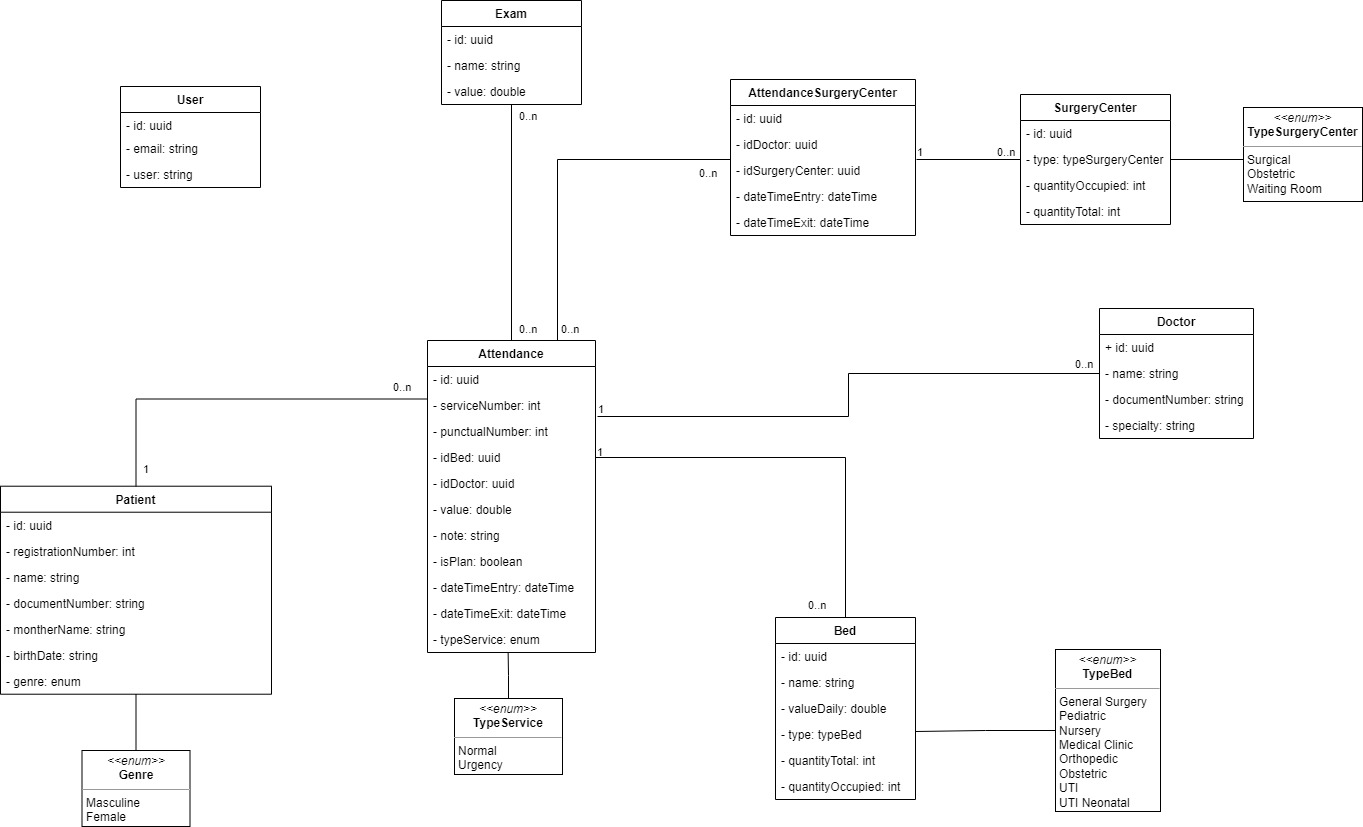
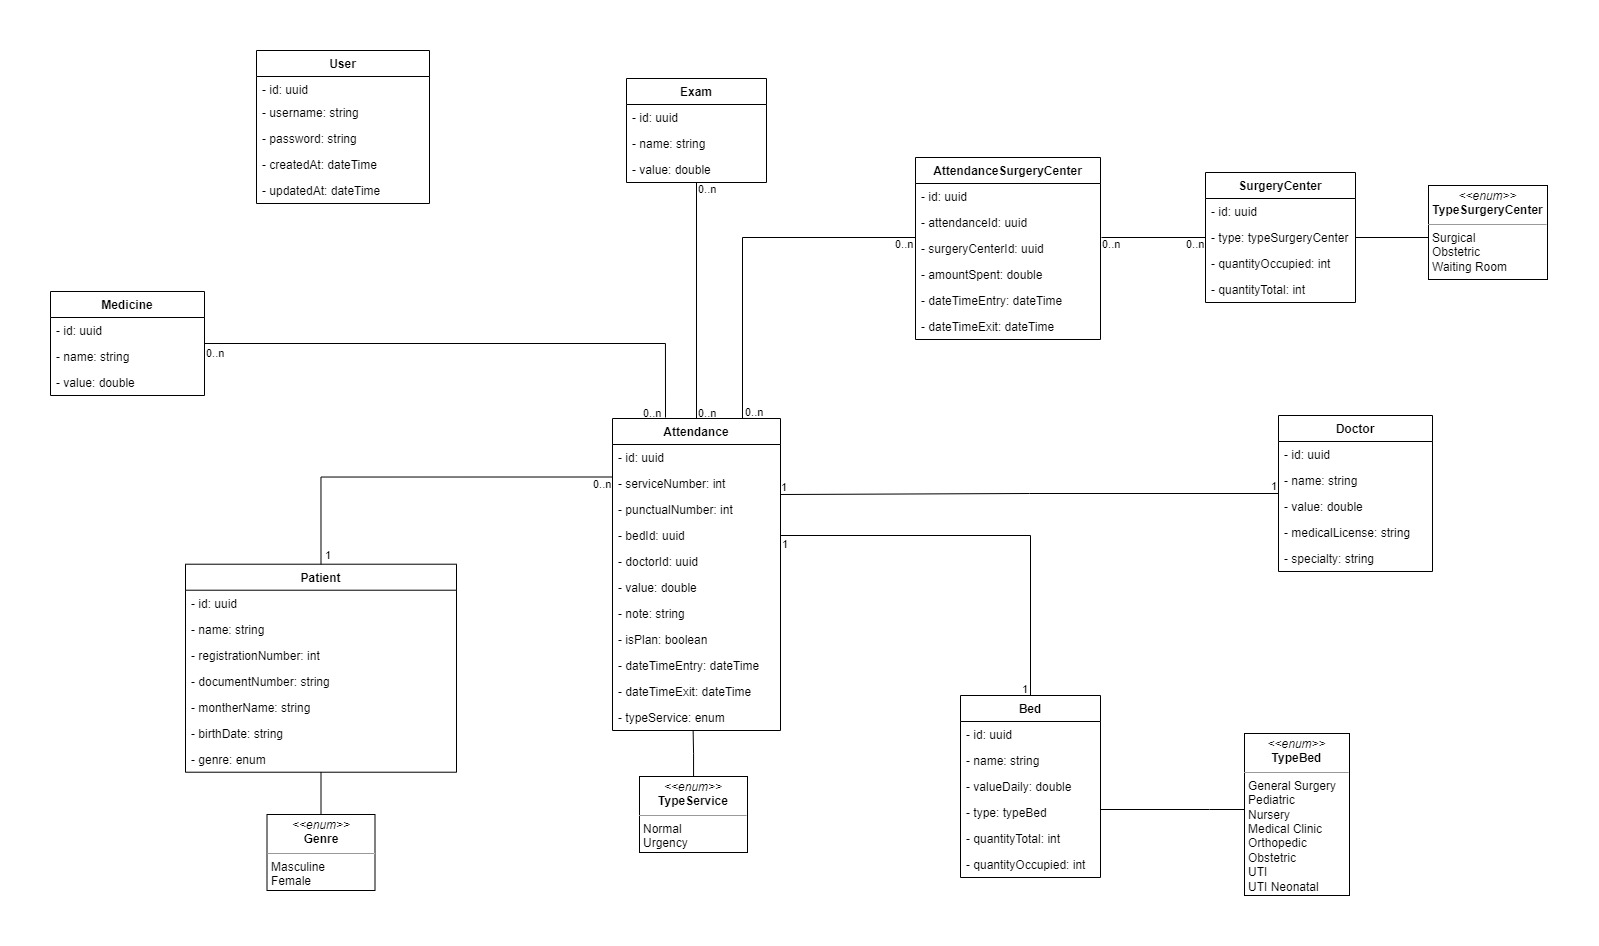
database mapping finalization

diff --git a/src/main/java/com/control/hospital/controller/entity/Attendance.java b/src/main/java/com/control/hospital/controller/entity/Attendance.java
@@ -1,4 +1,102 @@
 package com.control.hospital.controller.entity;
 
+import com.control.hospital.controller.enums.TypeService;
+import lombok.AllArgsConstructor;
+import lombok.Getter;
+import lombok.NoArgsConstructor;
+
+import javax.persistence.*;
+import java.time.LocalDateTime;
+import java.util.List;
+
+import static javax.persistence.CascadeType.*;
+import static javax.persistence.EnumType.*;
+
+@Entity
+@Getter
+@AllArgsConstructor
+@NoArgsConstructor
 public class Attendance {
+    @Id
+    @Column(
+            updatable = false,
+            unique = true,
+            nullable = false
+    )
+    private String id;
+
+    @Column(
+            nullable = false,
+            name = "service_number"
+    )
+    private Integer serviceNumber;
+
+    @Column(
+            nullable = false,
+            name = "punctual_number"
+    )
+    private Integer punctualNumber;
+
+    @OneToOne(cascade = ALL)
+    @JoinColumn(name = "doctor_id", referencedColumnName = "id")
+    private Doctor doctorId;
+
+    @OneToOne(cascade = ALL)
+    @JoinColumn(name = "bed_id", referencedColumnName = "id")
+    private Bed bedId;
+
+    @Column(nullable = false)
+    private Double value;
+
+    @Column(nullable = false)
+    private String note;
+
+    @Column(
+            nullable = false,
+            name = "is_plan"
+    )
+    private Boolean isPlan;
+
+    @Column(
+            nullable = false,
+            name = "date_time_entry"
+    )
+    private LocalDateTime dateTimeEntry;
+
+    @Column(
+            nullable = false,
+            name = "date_time_exit"
+    )
+    private LocalDateTime dateTimeExit;
+
+    @Enumerated(STRING)
+    @Column(
+            nullable = false,
+            name = "type_service"
+    )
+    private TypeService typeService;
+
+    @OneToMany(mappedBy = "attendance")
+    private List<AttendanceSurgeryCenter> registrations;
+
+    @ManyToMany
+    @JoinTable(
+            name = "exam_attendance",
+            joinColumns = @JoinColumn(name = "attendance_id"),
+            inverseJoinColumns = @JoinColumn(name = "exam_id"))
+    private List<Exam> exams;
+
+    @ManyToMany
+    @JoinTable(
+            name = "medicine_attendance",
+            joinColumns = @JoinColumn(name = "attendance_id"),
+            inverseJoinColumns = @JoinColumn(name = "medicine_id"))
+    private List<Medicine> medicines;
+
+    @ManyToMany
+    @JoinTable(
+            name = "patient_attendance",
+            joinColumns = @JoinColumn(name = "attendance_id"),
+            inverseJoinColumns = @JoinColumn(name = "patient_id"))
+    private List<Patient> patients;
 }

diff --git a/src/main/java/com/control/hospital/controller/entity/AttendanceSurgeryCenter.java b/src/main/java/com/control/hospital/controller/entity/AttendanceSurgeryCenter.java
@@ -1,0 +1,48 @@
+package com.control.hospital.controller.entity;
+
+import lombok.AllArgsConstructor;
+import lombok.Getter;
+import lombok.NoArgsConstructor;
+
+import javax.persistence.*;
+import java.time.LocalDateTime;
+
+@Entity(name = "attendance_surgery_center")
+@Getter
+@AllArgsConstructor
+@NoArgsConstructor
+public class AttendanceSurgeryCenter {
+    @Id
+    @Column(
+            updatable = false,
+            unique = true,
+            nullable = false
+    )
+    private String id;
+
+    @Column(
+            nullable = false,
+            name = "amount_spent"
+    )
+    private Double amountSpent;
+
+    @Column(
+            nullable = false,
+            name = "date_time_entry"
+    )
+    private LocalDateTime dateTimeEntry;
+
+    @Column(
+            nullable = false,
+            name = "date_time_exit"
+    )
+    private LocalDateTime dateTimeExit;
+
+    @ManyToOne
+    @JoinColumn(name = "attendance_id")
+    Attendance attendance;
+
+    @ManyToOne
+    @JoinColumn(name = "surgery_center_id")
+    SurgeryCenter surgeryCenter;
+}

diff --git a/src/main/java/com/control/hospital/controller/entity/SurgeryCenter.java b/src/main/java/com/control/hospital/controller/entity/SurgeryCenter.java
@@ -6,6 +6,9 @@ import lombok.Getter;
 import lombok.NoArgsConstructor;
 
 import javax.persistence.*;
+import java.util.List;
+
+import static javax.persistence.EnumType.*;
 
 @Entity(name = "surgery_center")
 @Getter
@@ -20,7 +23,7 @@ public class SurgeryCenter {
     )
     private String id;
 
-    @Enumerated(EnumType.STRING)
+    @Enumerated(STRING)
     @Column(
             nullable = false,
             name = "type_surgery_center"
@@ -38,4 +41,7 @@ public class SurgeryCenter {
             name = "quantity_occupied"
     )
     private Integer quantityOccupied;
+
+    @OneToMany(mappedBy = "surgeryCenter")
+    private List<AttendanceSurgeryCenter> registrations;
 }

diff --git a/src/main/java/com/control/hospital/controller/entity/Exam.java b/src/main/java/com/control/hospital/controller/entity/Exam.java
@@ -7,6 +7,8 @@ import lombok.NoArgsConstructor;
 import javax.persistence.Column;
 import javax.persistence.Entity;
 import javax.persistence.Id;
+import javax.persistence.ManyToMany;
+import java.util.List;
 
 @Entity
 @Getter
@@ -24,12 +26,9 @@ public class Exam {
     @Column(nullable = false)
     private String name;
 
-    @Column(
-            nullable = false,
-            name = "medical_license"
-    )
-    private String medicalLicense;
-
     @Column(nullable = false)
-    private String specialty;
+    private Double value;
+
+    @ManyToMany(mappedBy = "exams")
+    private List<Attendance> attendances;
 }

diff --git a/src/main/java/com/control/hospital/config/persistence/DatabaseConfig.java b/src/main/java/com/control/hospital/config/persistence/DatabaseConfig.java
@@ -23,7 +23,7 @@ public class DatabaseConfig {
         DataSourceBuilder<?> dataSourceBuilder = DataSourceBuilder.create();
 
         dataSourceBuilder.driverClassName("com.mysql.cj.jdbc.Driver");
-        dataSourceBuilder.url("jdbc:mysql://" + host + "/account?createDatabaseIfNotExist=true");
+        dataSourceBuilder.url("jdbc:mysql://" + host + "/hospital?createDatabaseIfNotExist=true");
         dataSourceBuilder.username(user);
         dataSourceBuilder.password(Files.toString(new File(password), UTF_8));
 

diff --git a/src/main/java/com/control/hospital/controller/entity/Patient.java b/src/main/java/com/control/hospital/controller/entity/Patient.java
@@ -7,6 +7,9 @@ import lombok.NoArgsConstructor;
 
 import javax.persistence.*;
 import java.time.LocalDate;
+import java.util.List;
+
+import static javax.persistence.EnumType.*;
 
 @Entity
 @Getter
@@ -48,7 +51,10 @@ public class Patient {
     )
     private LocalDate birthDate;
 
-    @Enumerated(EnumType.STRING)
+    @Enumerated(STRING)
     @Column(nullable = false)
     private Genre genre;
+
+    @ManyToMany(mappedBy = "patients")
+    private List<Attendance> attendances;
 }

diff --git a/src/main/java/com/control/hospital/controller/entity/Medicine.java b/src/main/java/com/control/hospital/controller/entity/Medicine.java
@@ -7,6 +7,8 @@ import lombok.NoArgsConstructor;
 import javax.persistence.Column;
 import javax.persistence.Entity;
 import javax.persistence.Id;
+import javax.persistence.ManyToMany;
+import java.util.List;
 
 @Entity
 @Getter
@@ -26,4 +28,7 @@ public class Medicine {
 
     @Column(nullable = false)
     private Double value;
+
+    @ManyToMany(mappedBy = "medicines")
+    private List<Attendance> attendances;
 }

diff --git a/src/main/java/com/control/hospital/controller/entity/Bed.java b/src/main/java/com/control/hospital/controller/entity/Bed.java
@@ -7,6 +7,8 @@ import lombok.NoArgsConstructor;
 
 import javax.persistence.*;
 
+import static javax.persistence.EnumType.*;
+
 @Entity
 @Getter
 @AllArgsConstructor
@@ -26,7 +28,7 @@ public class Bed {
     )
     private String name;
 
-    @Enumerated(EnumType.STRING)
+    @Enumerated(STRING)
     @Column(
             nullable = false,
             name = "type_bed"

diff --git a/src/main/java/com/control/hospital/controller/entity/Doctor.java b/src/main/java/com/control/hospital/controller/entity/Doctor.java
@@ -26,4 +26,13 @@ public class Doctor {
 
     @Column(nullable = false)
     private Double value;
+
+    @Column(
+            nullable = false,
+            name = "medical_license"
+    )
+    private String medicalLicense;
+
+    @Column(nullable = false)
+    private String specialty;
 }

diff --git a/README.md b/README.md
@@ -14,7 +14,11 @@ Na raiz do projeto:<br>
 ## Arquitetura
 <br/>
 
-![control-hospital](https://user-images.githubusercontent.com/31020103/180067414-bfe3123e-8439-4fac-b83a-5510d3346e8f.jpg)
+## Class
+![control-hospital-diagram](https://user-images.githubusercontent.com/31020103/180861358-0a5fc77d-0e3c-4d4f-9d5a-f36bf6f209bb.jpg)
+
+## EER
+![control-hospital-EER](https://user-images.githubusercontent.com/31020103/180861481-d0e3f5d4-0806-441b-bb13-8083b57edae5.png)
 
 #### Principais bibiliotecas utilizadas
 
